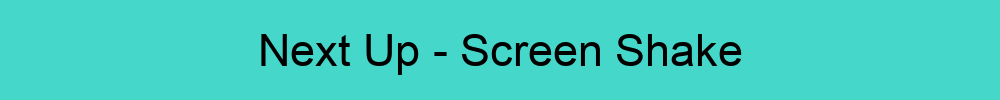
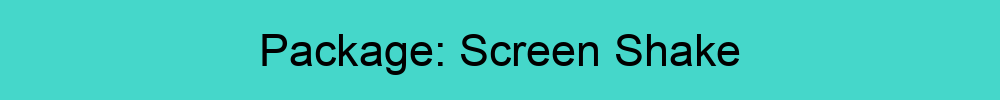
adding files

Changed region(s): [[0.248, 0.33, 0.744, 0.75]]

diff --git a/falling-snow/README.md b/falling-snow/README.md
@@ -1,12 +1,14 @@
 ![](../images/line3.png)
 
-### Add Title
+### Falling SNow
 
 <sub>[home](../README.md#user-content-gms2-packages---table-of-contents)</sub>
 
 ![](../images/line3.png)
 
-Chapter introduction here.
+This uses the particle system in GameMaker to have a gentle snow fall from the top to the bottom third of the screen.  Go into the particle system and customize the settings. 
+
+`obj_particle_snow` needs to be dropped into a level, and voila, snow!
 
 <br>
 
@@ -14,17 +16,22 @@ Chapter introduction here.
 
 ##### `Step 1.`\|`PCKGS`|:small_blue_diamond:
 
-![alt_text](images/.png)
+Download the [particle snow Package](../packages/particle_snow.yymps) package.
+
+![download particle_snow package](images/downloadParticleSnow.png)
 
 ![](../images/line2.png)
 
 ##### `Step 2.`\|`PCKGS`|:small_blue_diamond: :small_blue_diamond: 
 
-![alt_text](images/.png)
+Import into the game you want to use it in and select **Tools | Import Local Package**. Press the <kbd>Add All</kbd> button then press the <kbd>Import</kbd> button. 
+
+![import effect](images/importEffect.png)
 
 ![](../images/line2.png)
 
 ##### `Step 3.`\|`PCKGS`|:small_blue_diamond: :small_blue_diamond: :small_blue_diamond:
+
 
 ![alt_text](images/.png)
 
@@ -138,7 +145,7 @@ Chapter introduction here.
 
 ![](../images/line.png)
 
-<!-- <img src="https://via.placeholder.com/1000x100/45D7CA/000000/?text=Package: PACKAGE NAME"> -->
+<!-- <img src="https://via.placeholder.com/1000x100/45D7CA/000000/?text=Package: Falling Snow"> -->
 
 ![next up - ](images/banner.png)
 

diff --git a/screen-shake/README.md b/screen-shake/README.md
@@ -24,7 +24,7 @@ This package has one script `screen_shake` and one object `obj_shake`.
 
 ##### `Step 1.`\|`PCKGS`|:small_blue_diamond:
 
-Download [Screen Shake Package](../packages/screen_shake.yymps).
+Download the [Screen Shake Package](../packages/screen_shake.yymps) package.
 
 ![download screen_shake package](images/downloadPackage.png)
 
@@ -61,7 +61,7 @@ https://user-images.githubusercontent.com/5504953/229501118-5c76a026-ca53-40da-a
 
 ![](../images/line.png)
 
-<!-- <img src="https://via.placeholder.com/1000x100/45D7CA/000000/?text=Next Up - Screen ShakeE"> -->
+<!-- <img src="https://via.placeholder.com/1000x100/45D7CA/000000/?text=Package: Screen Shake"> -->
 
 ![next up - ](images/banner.png)
 

diff --git a/README.md b/README.md
@@ -35,6 +35,7 @@ Press the <kbd>Add All</kbd> button then press the <kbd>Import</kbd> button.  No
 ## GMS2 Packages - Table of Contents
 
 <kbd></kbd> &nbsp;&nbsp; [Screen Shake](screen-shake/README.md#user-content-screen-shake) <br>
+<kbd></kbd> &nbsp;&nbsp; [Falling Snow](falling-snow/README.md#falling-snow) <br>
 
 <!-- LICENSE -->
 ## License
